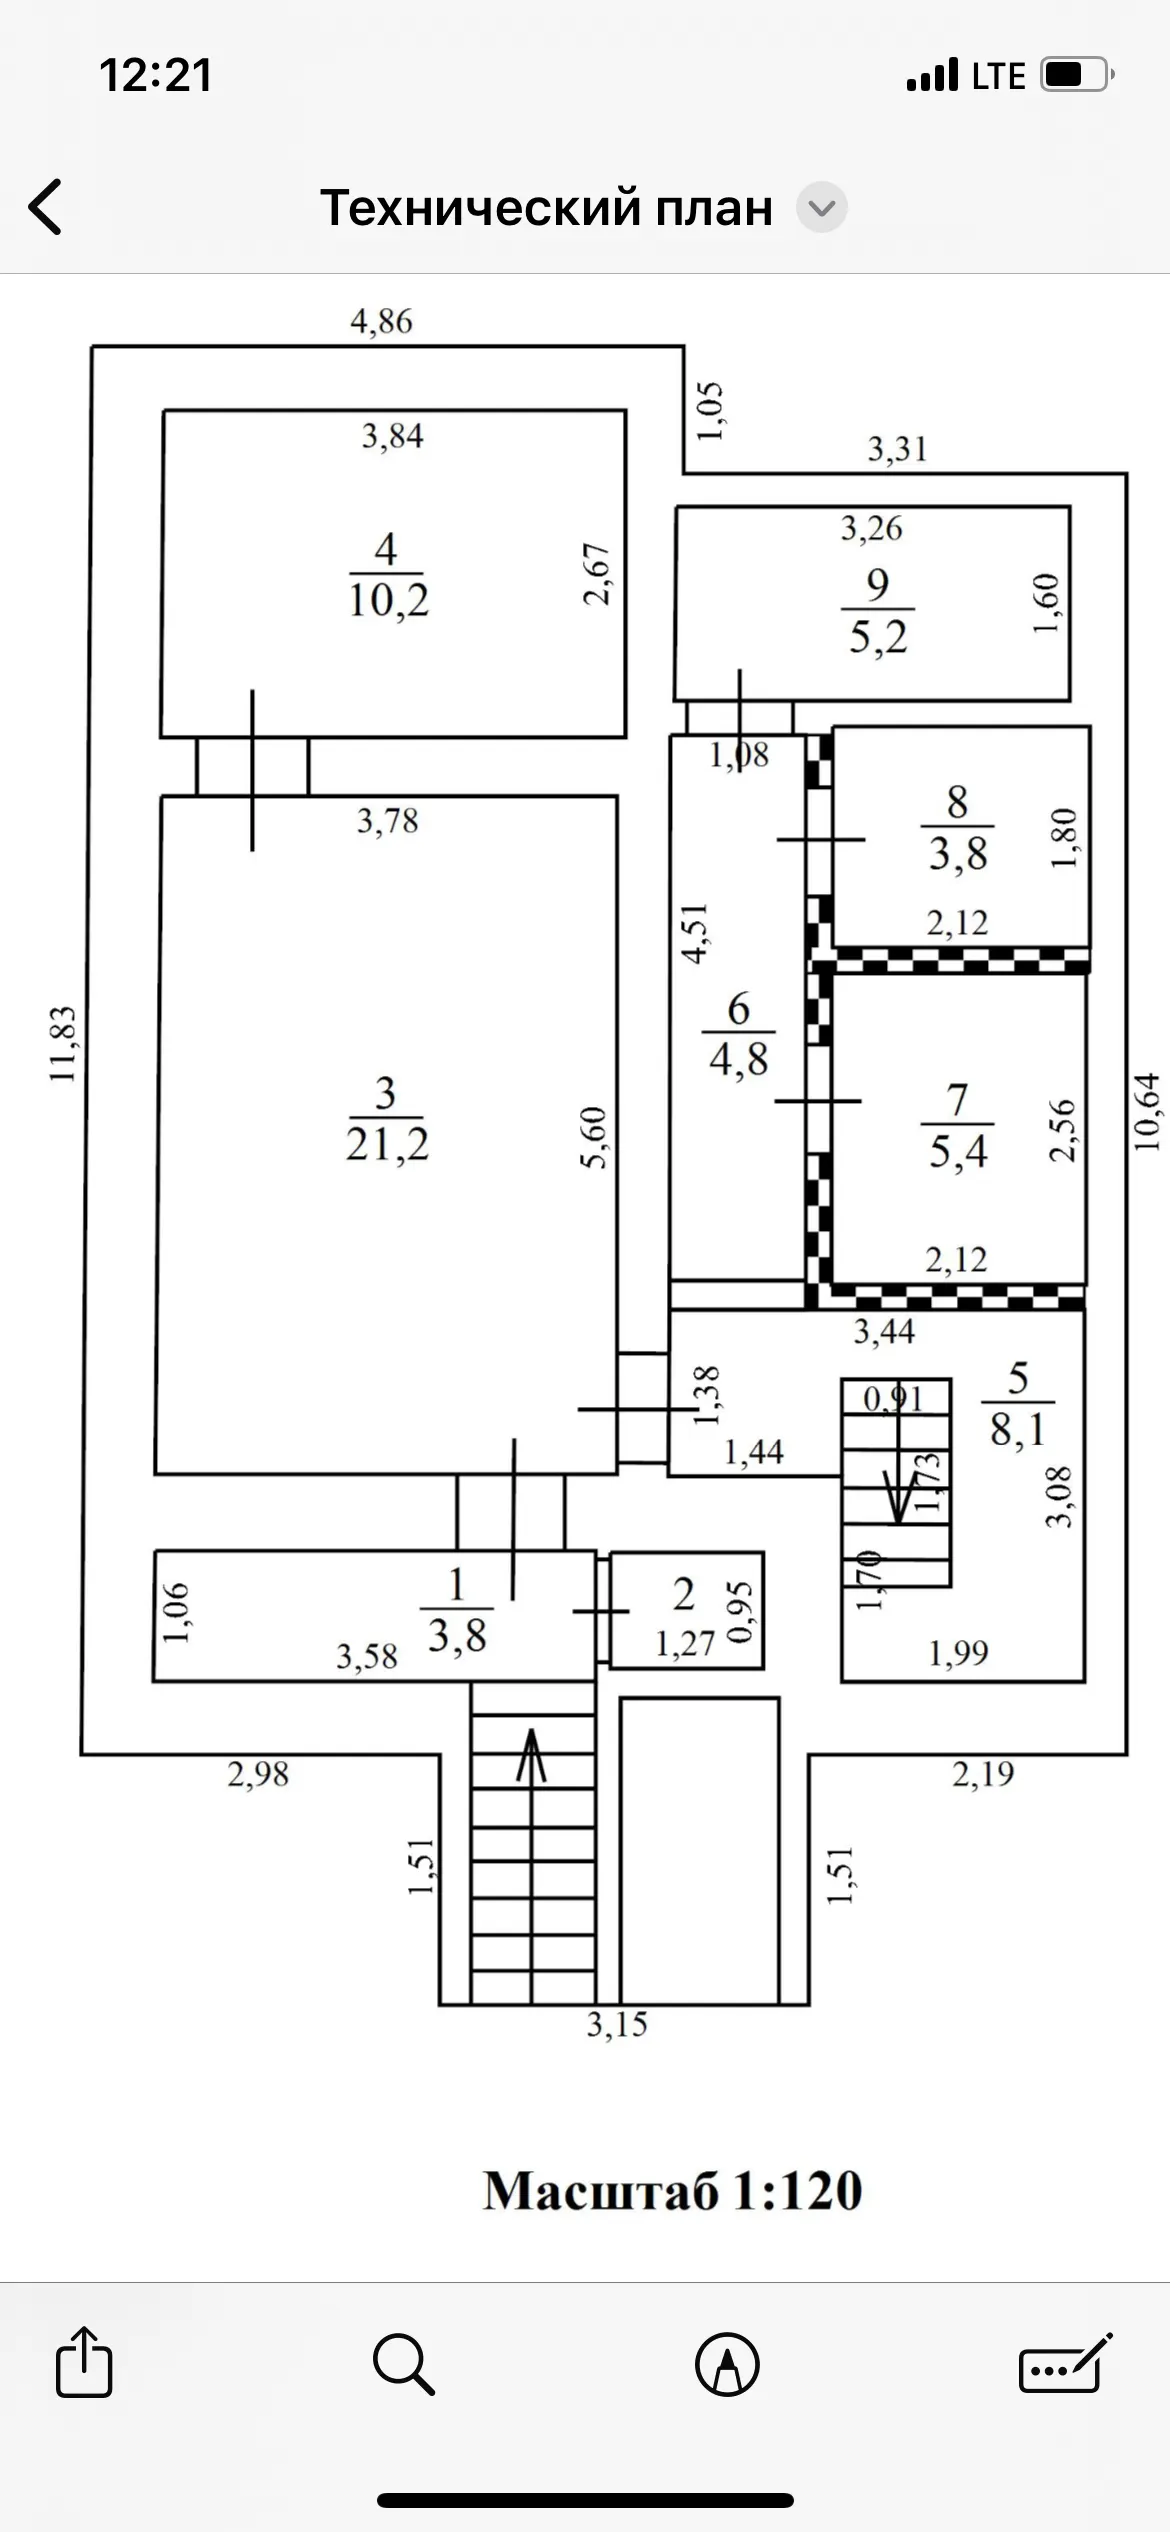
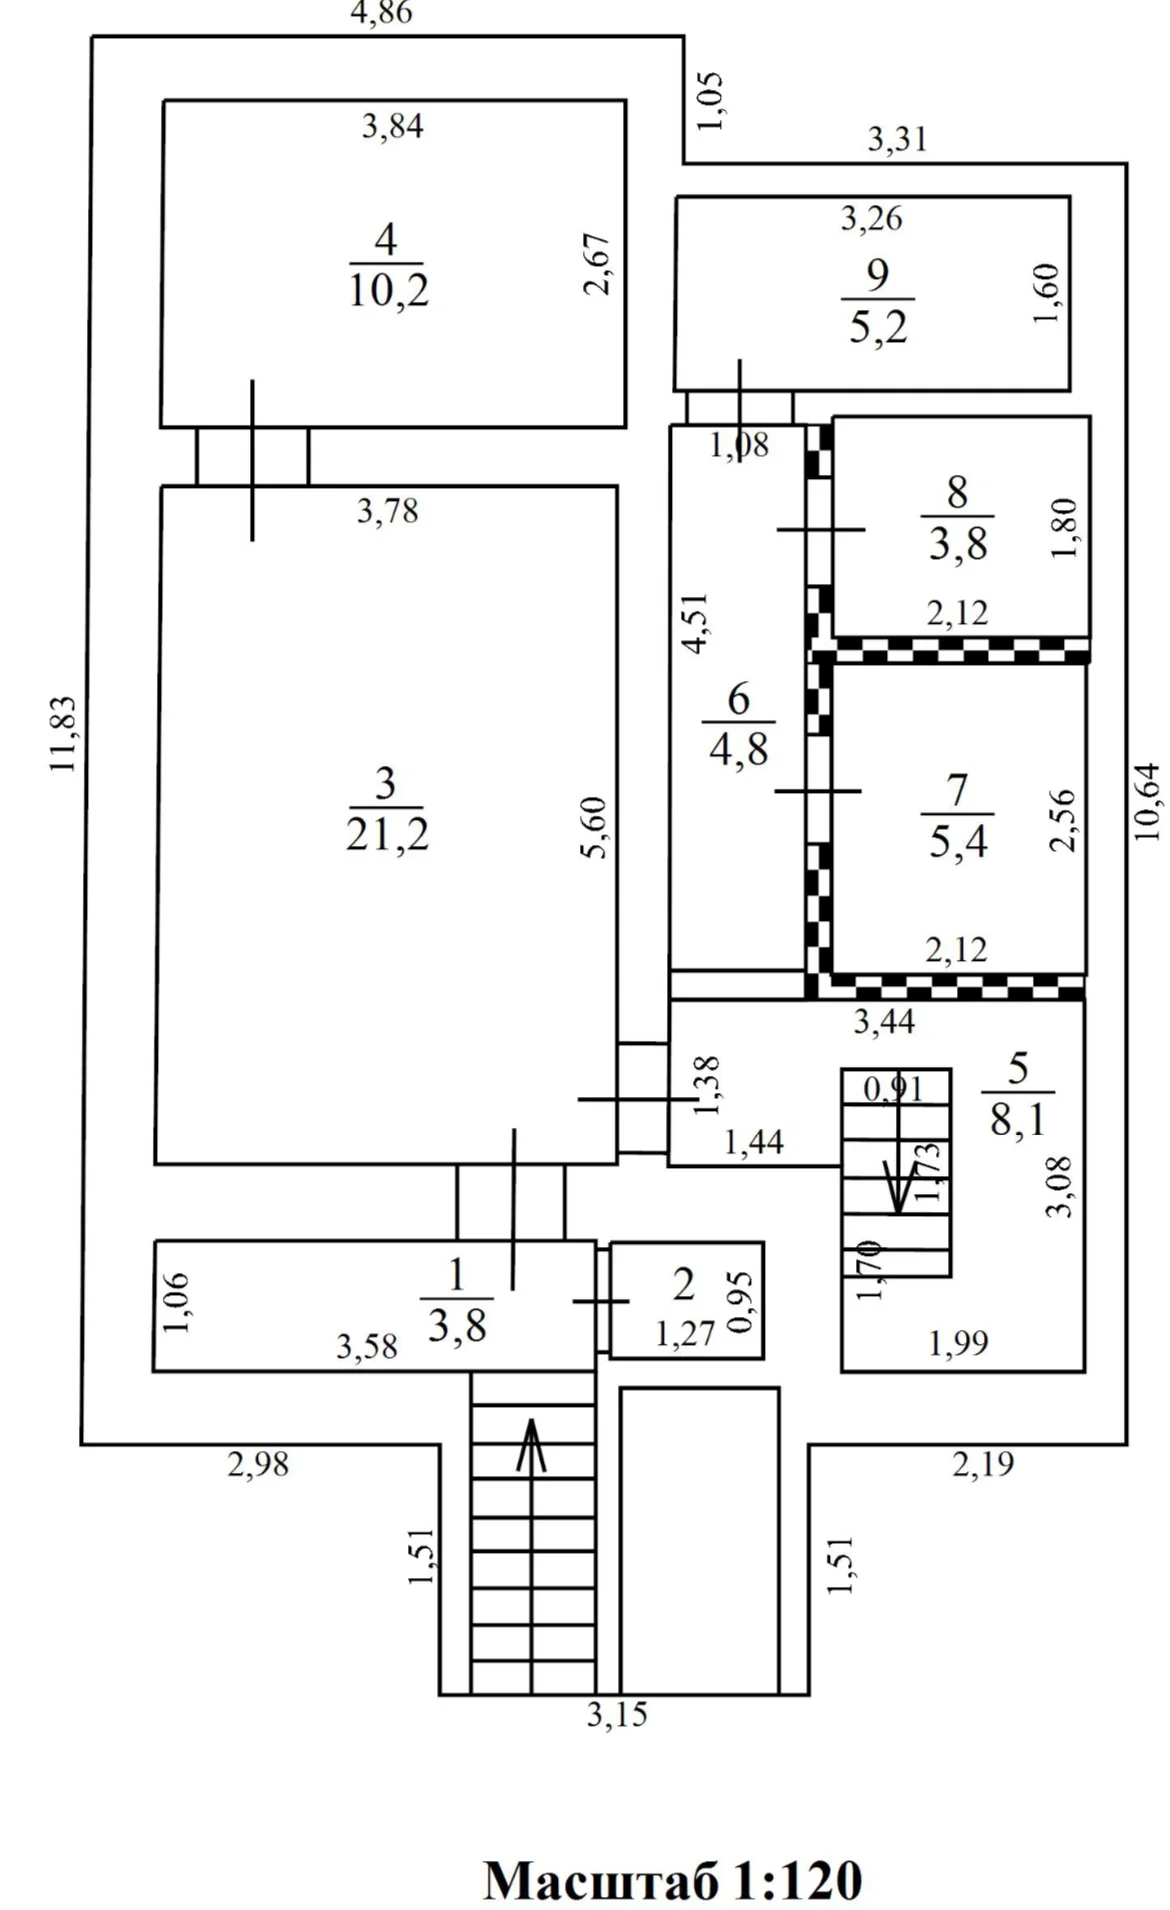
Crop floor-plan chrome and replace smeared shop photos
Drop iPhone status bar and toolbar from the technical plans. Swap
stitched panoramas for sharp shop frames and a nearby playground photo.

diff --git a/src/config/property.ts b/src/config/property.ts
@@ -402,7 +402,7 @@ export const property = {
       src: "/images/plans/floor-basement.webp",
       alt: "Технический план цокольного этажа дома в Житнево",
       width: 1170,
-      height: 2532,
+      height: 1910,
       available: true,
     },
     {
@@ -411,7 +411,7 @@ export const property = {
       src: "/images/plans/floor-1.webp",
       alt: "Технический план первого этажа дома в Житнево",
       width: 1170,
-      height: 2532,
+      height: 1910,
       available: true,
     },
     {
@@ -420,7 +420,7 @@ export const property = {
       src: "/images/plans/floor-2.webp",
       alt: "Технический план второго этажа дома в Житнево",
       width: 1170,
-      height: 2532,
+      height: 1910,
       available: true,
     },
     {
@@ -429,7 +429,7 @@ export const property = {
       src: "/images/plans/floor-upper.webp",
       alt: "Технический план верхнего этажа дома в Житнево",
       width: 1170,
-      height: 2532,
+      height: 1910,
       available: true,
     },
   ] satisfies FloorPlan[],
@@ -438,29 +438,29 @@ export const property = {
     {
       id: "shops-01",
       src: "/images/location/location-shops-01.webp",
-      alt: "Магазины рядом с деревней Житнево в Домодедовском округе",
+      alt: "Торговый центр Русь рядом с Житнево: Пятёрочка, Wildberries и Ozon",
       category: "shops",
-      categoryLabel: "Магазины рядом",
+      categoryLabel: "ТЦ Русь",
       width: 1920,
-      height: 932,
+      height: 1180,
       available: true,
     },
     {
       id: "shops-02",
       src: "/images/location/location-shops-02.webp",
-      alt: "Магазины и сервисы рядом с домом в Житнево",
+      alt: "Пятёрочка, ВкусВилл и ВинЛаб рядом с домом в Житнево",
       category: "shops",
       categoryLabel: "Магазины рядом",
       width: 1920,
-      height: 1226,
+      height: 1180,
       available: true,
     },
     {
-      id: "shops-03",
-      src: "/images/location/location-shops-03.webp",
-      alt: "Торговые точки рядом с Житнево",
-      category: "shops",
-      categoryLabel: "Магазины рядом",
+      id: "playground-01",
+      src: "/images/location/location-playground-01.webp",
+      alt: "Детская площадка рядом с деревней Житнево",
+      category: "playground",
+      categoryLabel: "Детская площадка рядом",
       width: 1920,
       height: 1440,
       available: true,
